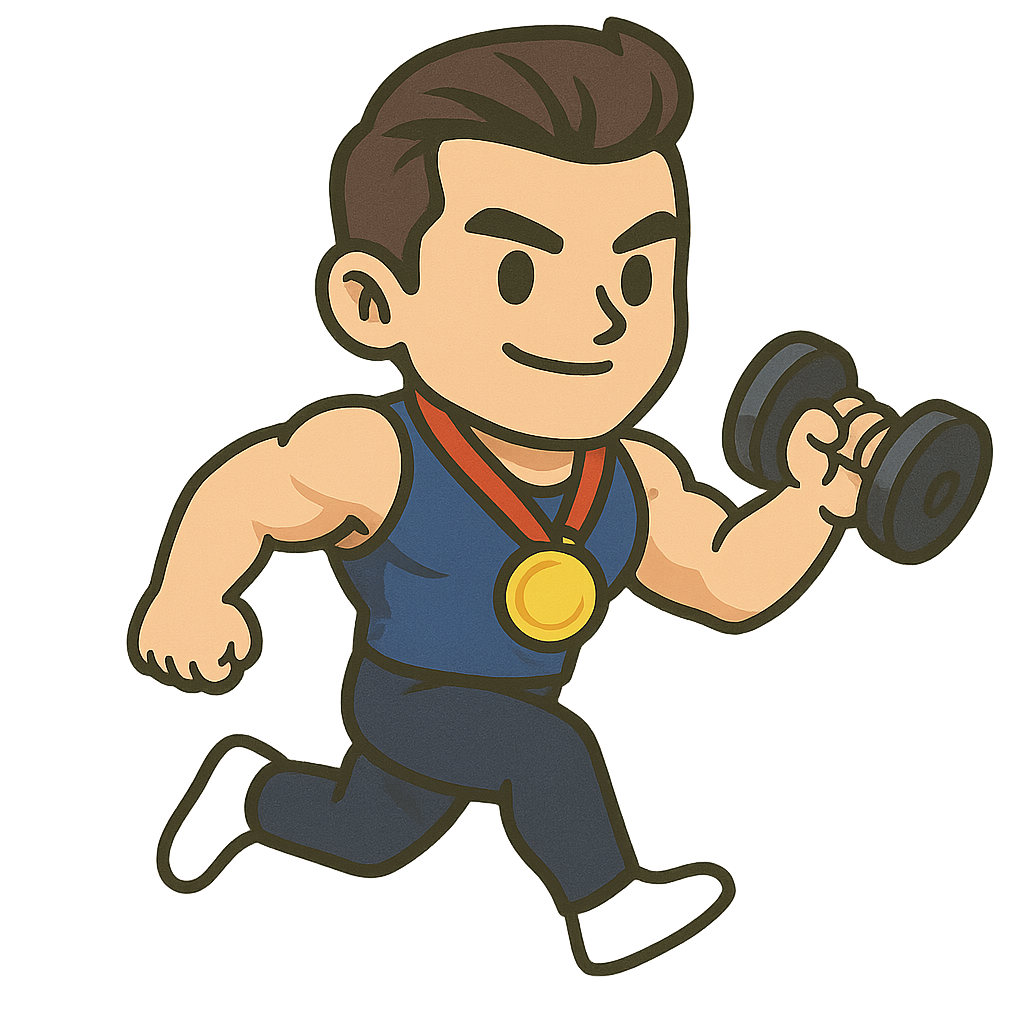
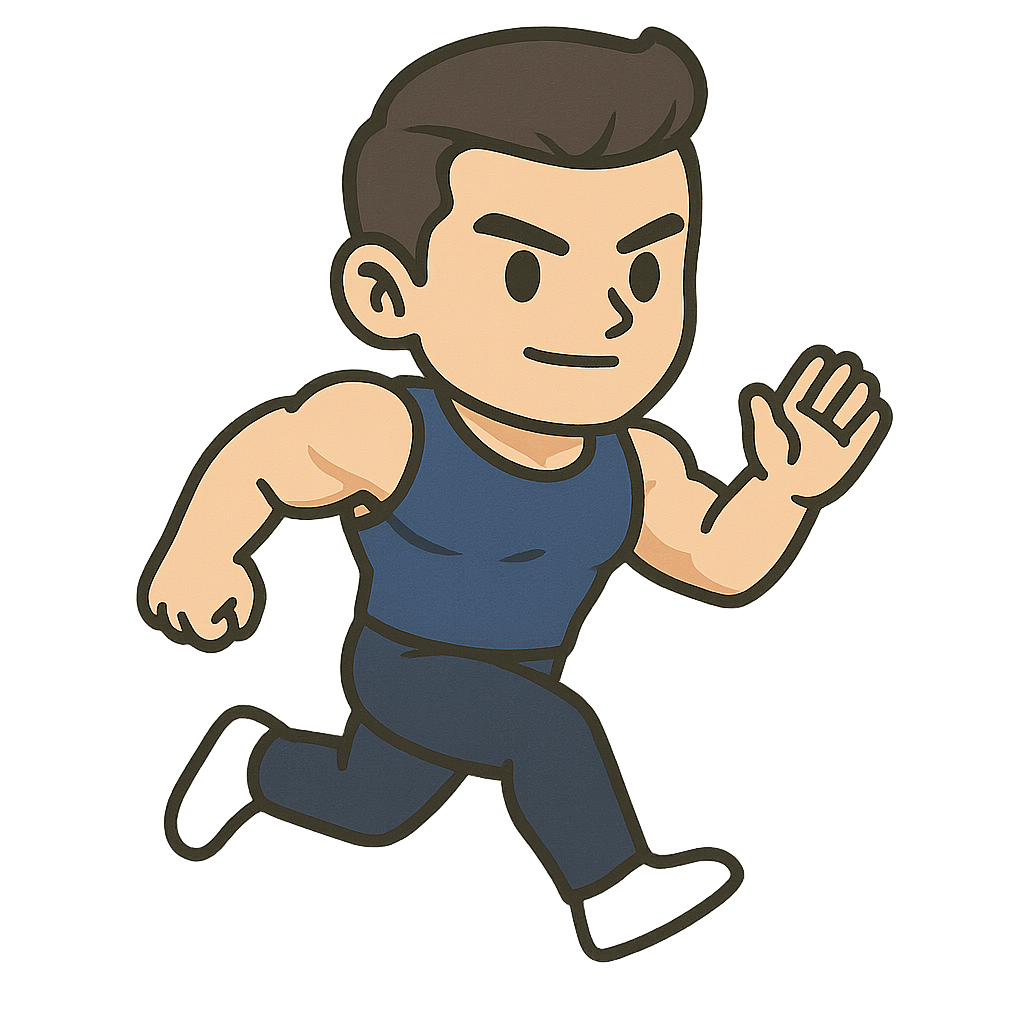
FEAT: 캐릭터 레벨에 맞는 캐릭터 이미지 렌더링

Changed region(s): [[0.125, 0.0, 0.9688, 0.9688]]

diff --git a/App.tsx b/App.tsx
@@ -14,31 +14,34 @@ import WriteScreen from './src/screens/WriteScreen';
 import HealthRoadScreen from './src/screens/HealthRoadScreen';
 import ActivitiesScreen from './src/screens/HistoryScreen';
 import Result2Screen from './src/screens/Result2Screen';
+import {RecoilRoot} from 'recoil';
 
 const Stack = createNativeStackNavigator();
 
 function App(): React.JSX.Element {
   return (
-    <NavigationContainer>
-      <Stack.Navigator
-        initialRouteName="Login"
-        screenOptions={{headerShown: false, animation: 'none'}}>
-        <Stack.Screen name="Main" component={MainScreen} />
-        <Stack.Screen name="Login" component={LoginScreen} />
-        <Stack.Screen name="Statistics" component={StatisticsScreen} />
-        <Stack.Screen name="Character" component={CharacterScreen} />
-        <Stack.Screen name="Community" component={CommunityScreen} />
-        <Stack.Screen name="Running" component={RunningScreen} />
-        <Stack.Screen name="Mypage" component={MyPageScreen} />
-        <Stack.Screen name="Result" component={ResultScreen} />
-        <Stack.Screen name="Result2" component={Result2Screen} />
-        <Stack.Screen name="Write" component={WriteScreen} />
-        <Stack.Screen name="HealthRoad" component={HealthRoadScreen} />
-        <Stack.Screen name="Activities" component={ActivitiesScreen} />
+    <RecoilRoot>
+      <NavigationContainer>
+        <Stack.Navigator
+          initialRouteName="Login"
+          screenOptions={{headerShown: false, animation: 'none'}}>
+          <Stack.Screen name="Main" component={MainScreen} />
+          <Stack.Screen name="Login" component={LoginScreen} />
+          <Stack.Screen name="Statistics" component={StatisticsScreen} />
+          <Stack.Screen name="Character" component={CharacterScreen} />
+          <Stack.Screen name="Community" component={CommunityScreen} />
+          <Stack.Screen name="Running" component={RunningScreen} />
+          <Stack.Screen name="Mypage" component={MyPageScreen} />
+          <Stack.Screen name="Result" component={ResultScreen} />
+          <Stack.Screen name="Result2" component={Result2Screen} />
+          <Stack.Screen name="Write" component={WriteScreen} />
+          <Stack.Screen name="HealthRoad" component={HealthRoadScreen} />
+          <Stack.Screen name="Activities" component={ActivitiesScreen} />
 
-        <Stack.Screen name="Test" component={TestScreen} />
-      </Stack.Navigator>
-    </NavigationContainer>
+          <Stack.Screen name="Test" component={TestScreen} />
+        </Stack.Navigator>
+      </NavigationContainer>
+    </RecoilRoot>
   );
 }
 

diff --git a/src/components/mainScreen/UserBar.tsx b/src/components/mainScreen/UserBar.tsx
@@ -4,18 +4,12 @@ import styled from 'styled-components/native';
 import QuestModal from '../common/QuestModal';
 import {useNavigation} from '@react-navigation/native';
 import {getMyUserInfoAPI} from '../../apis/user/userInfoAPI';
-
-type UserInfo = {
-  id: number;
-  name: string;
-  profileImage: string;
-  tier: number;
-  points: number;
-};
+import {useRecoilState} from 'recoil';
+import {userInfoAtom} from '../../recoil/atom';
 
 const UserBar = () => {
   const [modalVisible, setModalVisible] = useState(false); // 모달 상태
-  const [userInfo, setUserInfo] = useState<UserInfo | null>(null); // 유저 정보 상태
+  const [userInfo, setUserInfo] = useRecoilState(userInfoAtom); // Recoil 상태에서 유저 정보 가져오기
 
   const navigation = useNavigation();
 
@@ -35,24 +29,26 @@ const UserBar = () => {
     }
   };
 
-  //나의 유저 정보 API 호출 및 세탕
+  //나의 유저 정보 API 호출 및 세팅
   useEffect(() => {
     getMyUserInfoAPI()
       .then(response => {
         console.log('나의 유저 정보:', response.data);
         const data = response.data;
         setUserInfo({
-          id: data.Uid,
+          Uid: data.Uid,
           name: data.name,
           profileImage: data.profile_image,
           tier: data.tier,
           points: data.points,
+          level: data.level,
+          totalDistance: data.total_distance,
         });
       })
       .catch(error => {
         console.error('유저 정보 조회 실패:', error);
       });
-  }, []);
+  }, [setUserInfo]);
 
   return (
     <Wrapper>

diff --git a/src/components/characterScreen/CharacterContents.tsx b/src/components/characterScreen/CharacterContents.tsx
@@ -2,17 +2,36 @@ import React from 'react';
 import styled from 'styled-components/native';
 import HealthRoadContainer from './HealthRoadContainer';
 import TextBubble from './TextBubble';
+import {userInfoAtom} from '../../recoil/atom';
+import {useRecoilState} from 'recoil';
 
 const CharacterContents = () => {
+  const [userInfo, setUserInfo] = useRecoilState(userInfoAtom);
+
+  const getCharacterImageSource = (level: number | undefined) => {
+    switch (level) {
+      case 1:
+        return require('../../images/characters/character1.png');
+      case 2:
+        return require('../../images/characters/character2.png');
+      case 3:
+        return require('../../images/characters/character3.png');
+      case 4:
+        return require('../../images/characters/character4.png');
+      case 5:
+        return require('../../images/characters/character5.png');
+      default:
+        return require('../../images/characters/character1.png');
+    }
+  };
+
   return (
     <Wrapper>
       <HealthRoadContainer />
       <TextBubble text="빨리 커서 몸짱이 되고싶어!" />
       <Character>
         <Name>Lv.1</Name>
-        <ChracterImage
-          source={require('../../images/characters/character1.png')}
-        />
+        <ChracterImage source={getCharacterImageSource(userInfo?.level)} />
       </Character>
       <LvUpContainer>
         <LvUpButton>

diff --git a/src/recoil/atom.ts b/src/recoil/atom.ts
@@ -1,0 +1,15 @@
+import {atom} from 'recoil';
+
+//실제 DB에서는 user_id, password, birth 제외
+export const userInfoAtom = atom({
+  key: 'userInfo',
+  default: {
+    Uid: 0,
+    name: '',
+    profileImage: '',
+    tier: 1, // tier는 숫자로 관리
+    points: 0,
+    level: 1,
+    totalDistance: 0,
+  },
+});
